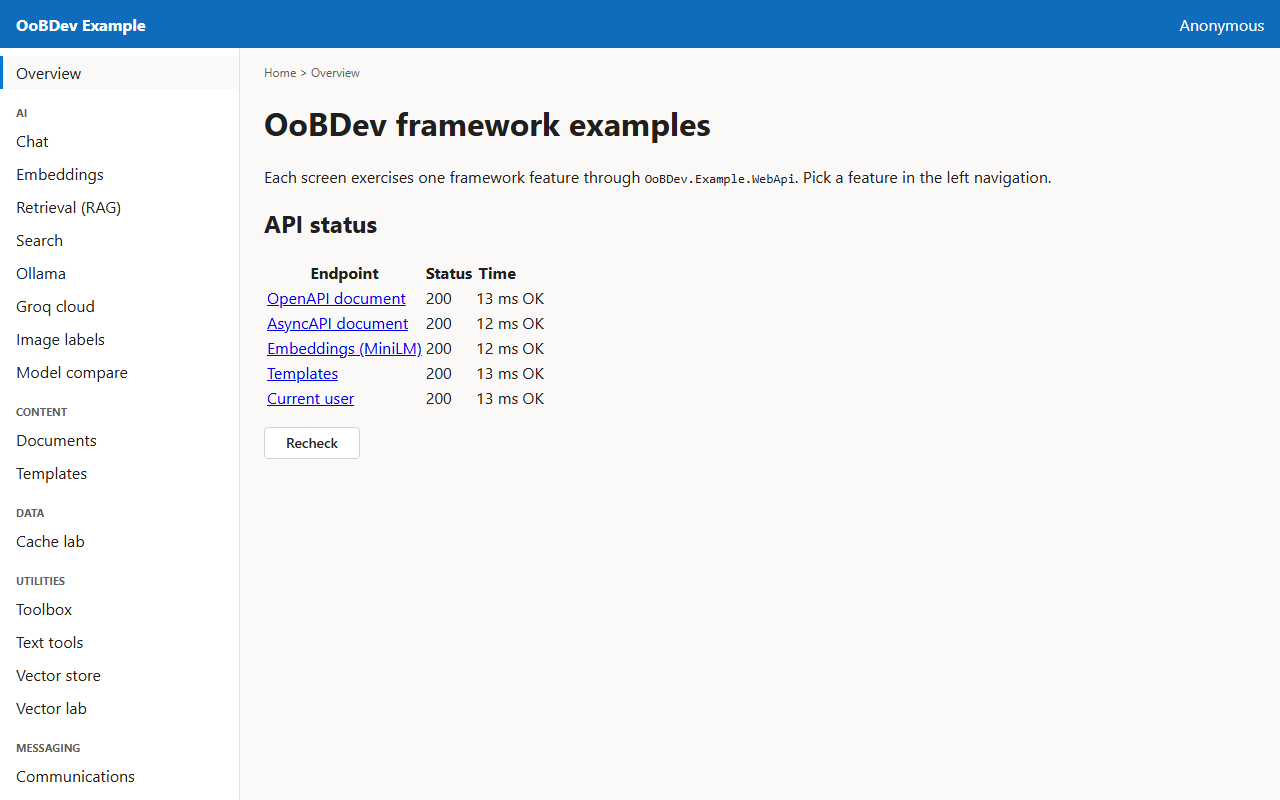
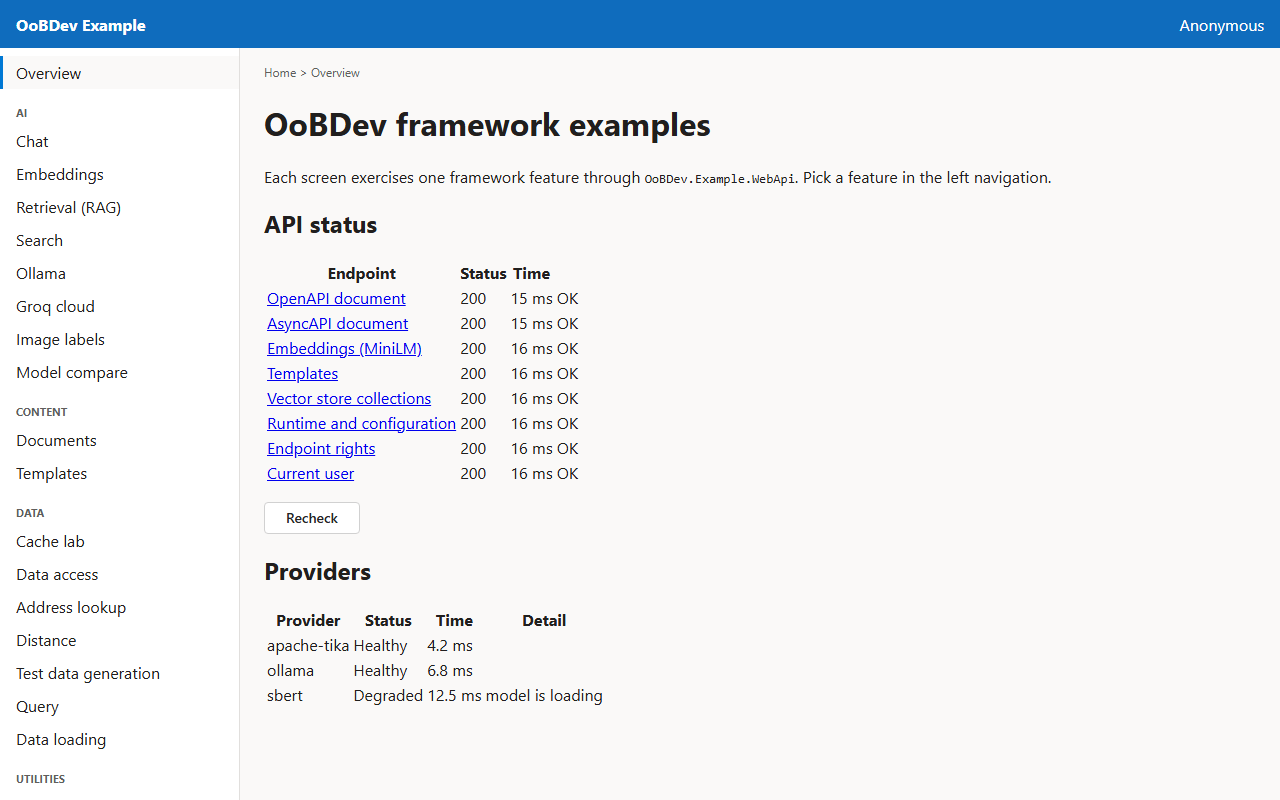
Add the provider health step to the overview journey

diff --git a/src/Examples/OoBDev.Example.Web/e2e/journeys.ts b/src/Examples/OoBDev.Example.Web/e2e/journeys.ts
@@ -30,6 +30,15 @@ export const journeys: Journey[] = [
         },
       },
       {
+        title: 'Read the provider health',
+        narrative: 'Below the endpoint table, the Providers table lists the health of each backing service the API reports, with its response time and any detail.',
+        expect: ['The Providers table lists apache-tika, ollama and sbert.', 'The sbert row reads Degraded with the detail "model is loading".'],
+        run: async page => {
+          await expect(page.getByRole('heading', { name: 'Providers' })).toBeVisible();
+          await expect(page.getByRole('cell', { name: 'model is loading' })).toBeVisible();
+        },
+      },
+      {
         title: 'Pick a feature from the left navigation',
         narrative: 'The navigation groups the examples by area. Choosing an entry opens its screen in the main blade and updates the breadcrumb.',
         expect: ['The breadcrumb shows Home > AI > Embeddings.'],

diff --git a/docs/applications/example/user-guide/explore-the-examples.md b/docs/applications/example/user-guide/explore-the-examples.md
@@ -35,6 +35,7 @@ Related framework features: OoBDev.Example.WebApi; OoBDev.AspNetCore.Mvc (OpenAP
 skinparam shadowing false
 start
 :Open the overview;
+:Read the provider health;
 :Pick a feature from the left navigation;
 stop
 @enduml
@@ -52,10 +53,18 @@ The overview lists every example endpoint and checks that each one answers.
 
 *Figure 2 — Open the overview*
 
-### 2. Pick a feature from the left navigation
+### 2. Read the provider health
+
+Below the endpoint table, the Providers table lists the health of each backing service the API reports, with its response time and any detail.
+
+![Read the provider health](images/explore-the-examples/02-read-the-provider-health.png)
+
+*Figure 3 — Read the provider health*
+
+### 3. Pick a feature from the left navigation
 
 The navigation groups the examples by area. Choosing an entry opens its screen in the main blade and updates the breadcrumb.
 
-![Pick a feature from the left navigation](images/explore-the-examples/02-pick-a-feature-from-the-left-navigation.png)
+![Pick a feature from the left navigation](images/explore-the-examples/03-pick-a-feature-from-the-left-navigation.png)
 
-*Figure 3 — Pick a feature from the left navigation*
+*Figure 4 — Pick a feature from the left navigation*

diff --git a/docs/applications/example/runbooks/explore-the-examples.md b/docs/applications/example/runbooks/explore-the-examples.md
@@ -26,7 +26,8 @@ Automatically: `npx playwright test e2e/journeys.spec.ts -g "Explore the example
 By hand, in the example web application at `/`:
 
 1. **Open the overview.** The overview lists every example endpoint and checks that each one answers. Expect: The page title reads "OoBDev framework examples". Every probed endpoint shows OK.
-2. **Pick a feature from the left navigation.** The navigation groups the examples by area. Choosing an entry opens its screen in the main blade and updates the breadcrumb. Expect: The breadcrumb shows Home > AI > Embeddings.
+2. **Read the provider health.** Below the endpoint table, the Providers table lists the health of each backing service the API reports, with its response time and any detail. Expect: The Providers table lists apache-tika, ollama and sbert. The sbert row reads Degraded with the detail "model is loading".
+3. **Pick a feature from the left navigation.** The navigation groups the examples by area. Choosing an entry opens its screen in the main blade and updates the breadcrumb. Expect: The breadcrumb shows Home > AI > Embeddings.
 
 ## Troubleshooting
 

diff --git a/docs/design/example-ui/missing-screens.md b/docs/design/example-ui/missing-screens.md
@@ -52,7 +52,7 @@ These have no row in [the plan](plan.md) or `screens.md`; whether each deserves 
 | Telemetry | Fixed 2026-11-20: the API now lists the `Microsoft.AspNetCore` and `System.Net.Http` sources, and request traces reach the Aspire dashboard (checked live); the page itself lists the recent traces |
 | Current user, Sign in | Sign in shows only when an identity provider is configured; the Current user page says so when the host runs anonymously (2026-11-24) |
 | Developer | API and event references are links only |
-| Overview | Probes cover eight endpoints (vector store, operations and rights added 2026-11-20); a providers table from `GET api/Operations/health` was built 2026-11-25 (Q40 A); its journey step and screenshot wait for a Playwright run (`screens.md`, Table 2) |
+| Overview | Probes cover eight endpoints (vector store, operations and rights added 2026-11-20); a providers table from `GET api/Operations/health` was built 2026-11-25 (Q40 A); its journey step and screenshot were generated 2026-11-25 (step "Read the provider health") |
 
 ## Recommended order
 

diff --git a/docs/changes/2026-11-25.md b/docs/changes/2026-11-25.md
@@ -125,3 +125,7 @@ Verified: `OoBDev.Communications.Tests` 67 Unit tests pass (9 new in `Communicat
 ## Communications Core orchestration, slice 2: hosted release loop
 
 `DeferralReleaseHost` (`OoBDev.Communications.Hosting`) calls `ICommunicationOrchestrator.ReleaseDueAsync` every `SendReceiveOptions.DeferralReleaseInterval` (new, default 1 minute, validated range); `TryAddCommunicationsHosting()` registers it with the orchestration services. A failed release is logged and retried. Verified: `OoBDev.Communications.Hosting.Tests` 4 Unit tests pass (2 new).
+
+## Example overview: provider health journey step
+
+The `explore-the-examples` journey has a "Read the provider health" step over the Providers table (`GET api/Operations/health`, mocked with a Degraded sbert row); the Playwright run regenerated the spec, runbook, user guide and screenshots. Verified: the journey passes.

diff --git a/docs/applications/example/specs/explore-the-examples.md b/docs/applications/example/specs/explore-the-examples.md
@@ -13,6 +13,7 @@
 | Step | Action | Expected result |
 | --- | --- | --- |
 | 1 | Open the overview | The page title reads "OoBDev framework examples".<br>Every probed endpoint shows OK. |
-| 2 | Pick a feature from the left navigation | The breadcrumb shows Home > AI > Embeddings. |
+| 2 | Read the provider health | The Providers table lists apache-tika, ollama and sbert.<br>The sbert row reads Degraded with the detail "model is loading". |
+| 3 | Pick a feature from the left navigation | The breadcrumb shows Home > AI > Embeddings. |
 
 Source: `e2e/journeys.ts` (journey `explore-the-examples`). Each expected result is asserted by the step's `run` function.

diff --git a/docs/applications/example/specs/README.md b/docs/applications/example/specs/README.md
@@ -10,7 +10,7 @@ Acceptance criteria for each journey. The same journeys run as Playwright tests.
 
 | Spec | Steps | Start route |
 | --- | --- | --- |
-| [Explore the examples](explore-the-examples.md) | 2 | `/` |
+| [Explore the examples](explore-the-examples.md) | 3 | `/` |
 | [Chat with a local model](chat-with-a-local-model.md) | 2 | `/ai/chat` |
 | [Hold a conversation with Ollama](hold-a-conversation.md) | 3 | `/ai/ollama` |
 | [Compare two texts with embeddings](compare-two-texts.md) | 2 | `/ai/embeddings` |

diff --git a/docs/changes/README.md b/docs/changes/README.md
@@ -65,7 +65,7 @@ Each task section should include:
 
 ## By day
 
-- [2026-11-25](2026-11-25.md): 25 task(s)
+- [2026-11-25](2026-11-25.md): 26 task(s)
 - [2026-11-24](2026-11-24.md): 11 task(s)
 - [2026-11-23](2026-11-23.md): 58 task(s)
 - [2026-11-20](2026-11-20.md): 22 task(s)
